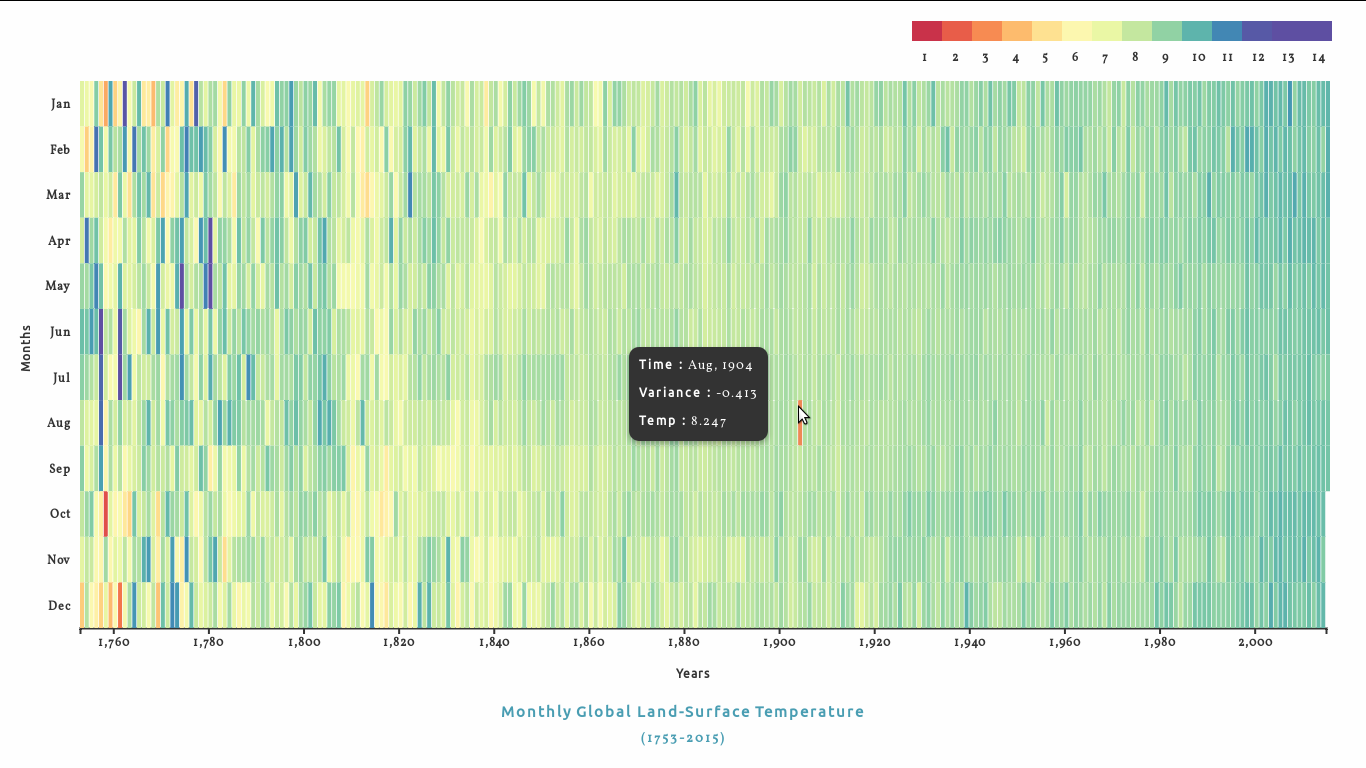
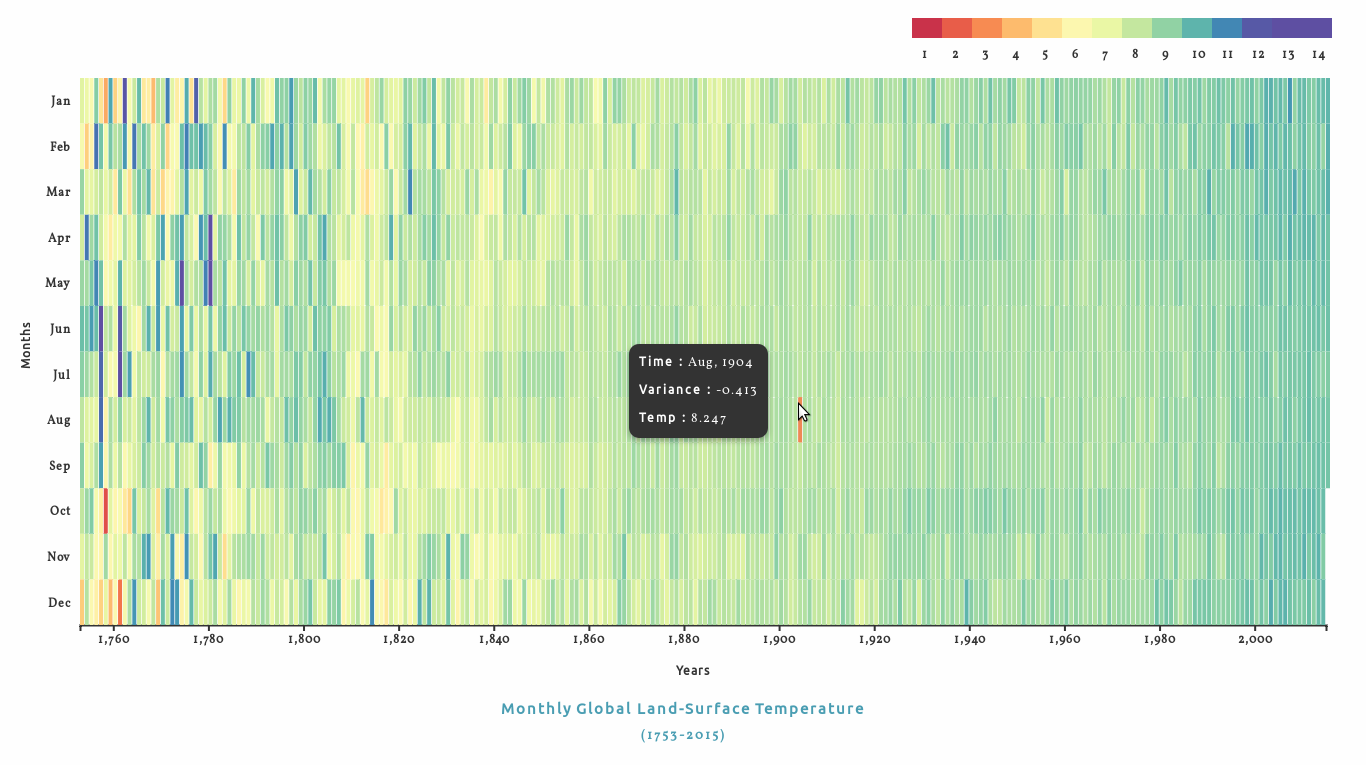
editing

diff --git a/heat-map/js/index.js b/heat-map/js/index.js
@@ -1,8 +1,12 @@
+function plot() {
+
 var margin = {top: 80, bottom: 60, left: 80, right: 40};
 
 var width = window.innerWidth - margin.right - margin.left;
 var height = window.innerHeight - margin.bottom - margin.top - 80;
-
+height = height > 400 ? height : 300;
+width = (width+margin.left+margin.right) > 400 ? width : 400;
+	
 var cs = d3.interpolateSpectral;
 var xs = d3.scaleLinear().range([0, width]);
 // var ys = d3.scaleLinear()
@@ -14,13 +18,12 @@ var ys = d3.scaleBand()
 
 var monthName = ["Jan", "Feb", "Mar", "Apr", "May", "Jun", "Jul", "Aug", "Sep", "Oct", "Nov", "Dec"];
 
-var xa = d3.axisBottom(xs).ticks(10);
+var xa = d3.axisBottom(xs).ticks(width < 600 ? 5 : 10);
 var ya = d3.axisLeft(ys);
 
 var url = "https://raw.githubusercontent.com/FreeCodeCamp/ProjectReferenceData/master/global-temperature.json";
 
-var graph = d3.select("body")
-					.append("svg");
+var graph = d3.select("svg");
 
 graph = graph.attr("width", width + margin.right + margin.left)
 		.attr("height", height + margin.top + margin.bottom)
@@ -56,23 +59,26 @@ $.getJSON(url, function(data, status) {
 		
 		var diff = upperLimit - lowerLimit; 
 		
-		var colorScale = d3.select("svg")
-							.append("g")
-							.attr("transform", "translate("+(width-364)+",20)");
+		var blockWidth = width < 600 ? width / 14 : 30;
 		
+		var colorScale = graph
+							.append("g")
+							.attr("class", "colorScale")
+							.attr("transform", "translate("+(width  -(blockWidth * 15) )+",-60)");
+		 
 		for(var i = limits[0]; i <= limits[1]; i++) {
 			var newColor= colorScale.append("g");
 			newColor.append("rect")	
 				.attr("fill", cs(i/diff))
-				.attr("width", 30)
+				.attr("width", blockWidth)
 				.attr("height", 20)
-				.attr("x", i* 30);
+				.attr("x", i* blockWidth);
 			newColor.append("text")
 				.text(i)
 				.attr("class", "colorText")
 				.attr("y", 40)
 				.attr("text-anchor", "left")
-				.attr("x", i* 30 + 10);
+				.attr("x", i* blockWidth + 10);
 		}
 		
 		graph.append("g")
@@ -96,8 +102,7 @@ $.getJSON(url, function(data, status) {
       .attr("class", "yinfo")
       .text("Months");
 		
-		var div = d3.select("body").append("div")
-								.attr("class", "tooltip");
+		var div = d3.select(".tooltip");
 		
 		graph.selectAll(".rect")
 			.data(data.monthlyVariance)
@@ -126,11 +131,28 @@ $.getJSON(url, function(data, status) {
 			
 	}//gej json ends
 	
-	d3.select("body")
-		.append("h4")
+	d3.select("h4")
 		.text("Monthly Global Land-Surface Temperature");
 
-	d3.select("body")
-		.append("p")
+	d3.select("p")
 		.text("(" + data["monthlyVariance"][0]["year"] + "-" + data["monthlyVariance"][data["monthlyVariance"].length - 1]["year"] + ")");
+});
+
+}
+
+$(document).ready(function() {
+  plot();
+  // for ie 9
+  if(window.attachEvent) {
+    window.attachEvent('onresize', function() {
+        alert('attachEvent - resize');
+    });
+  }
+  else if(window.addEventListener) {
+    window.addEventListener('resize', function() {
+      $("svg").empty();
+			$("h4, p").html("");
+			plot();
+    }, true);
+  }
 });

diff --git a/heat-map/index.html b/heat-map/index.html
@@ -19,6 +19,12 @@
   <body>
 
     
+<svg></svg>
+<div class="description">
+  <h4></h4>
+  <p></p>
+</div>
+<div class="tooltip"></div>
     <script src='https://cdnjs.cloudflare.com/ajax/libs/d3/4.2.2/d3.min.js'></script>
 <script src='https://cdnjs.cloudflare.com/ajax/libs/jquery/3.1.0/jquery.min.js'></script>
 <script src='https://d3js.org/d3-interpolate.v1.min.js'></script>
